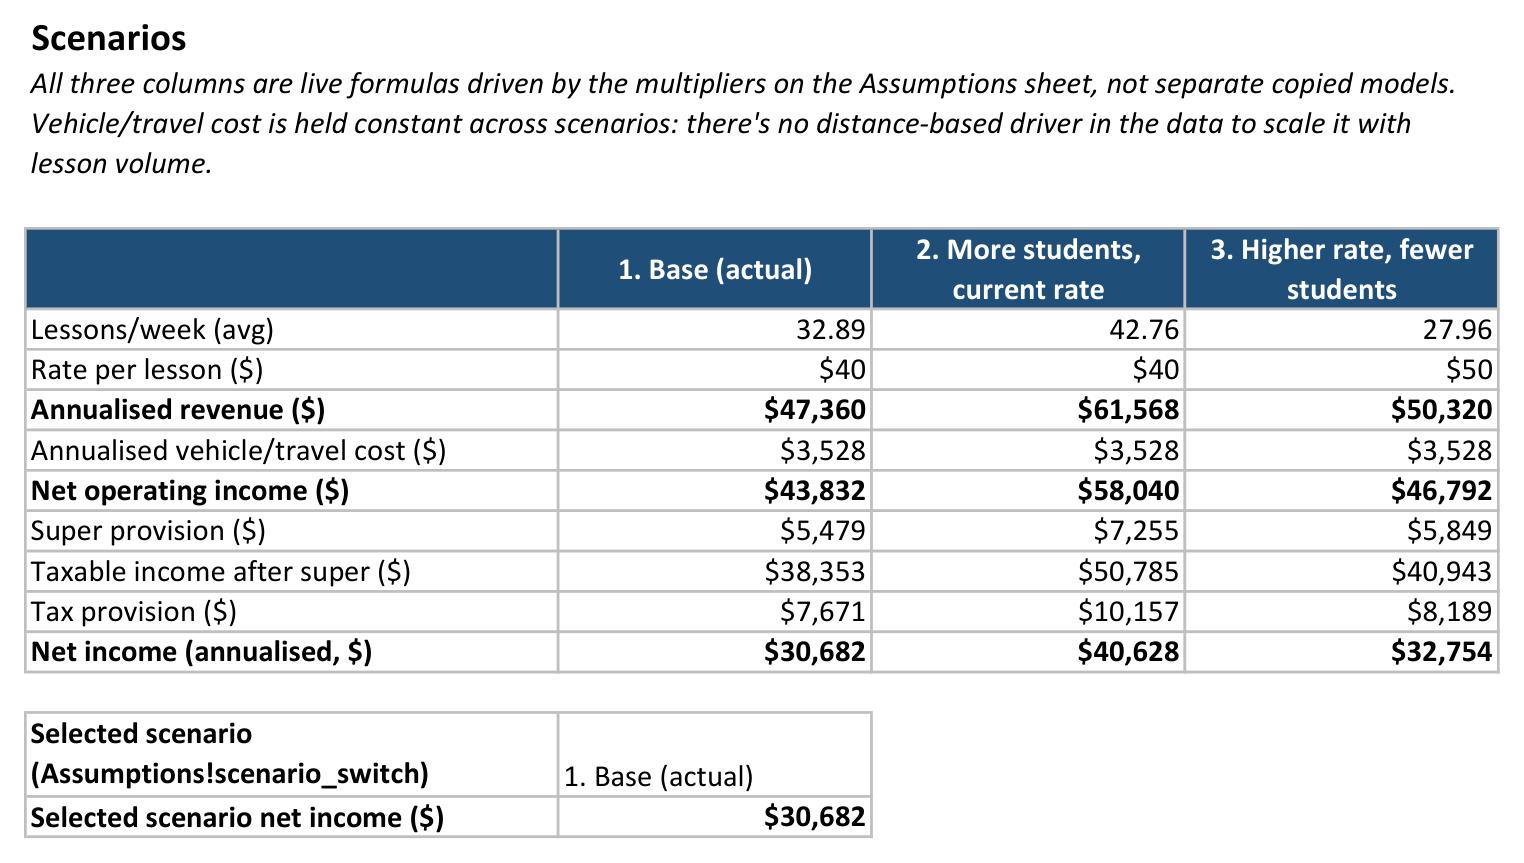
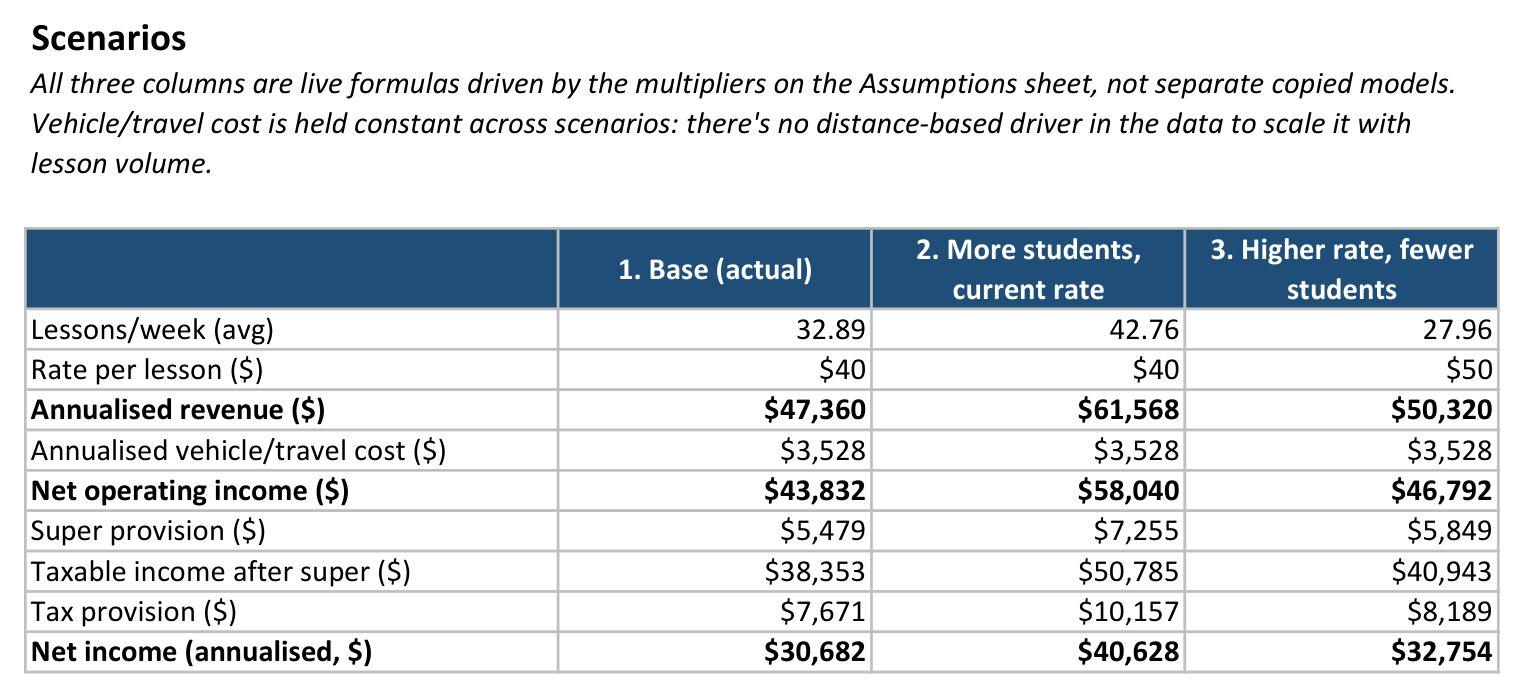
refactor: remove Selected scenario callout from Scenarios sheet
Drops the CHOOSE()-based summary block below the three-scenario table.
scenario_switch on the Assumptions sheet was its only consumer and is
now an orphaned input with no formula referencing it.

diff --git a/scripts/build_workbook.py b/scripts/build_workbook.py
@@ -628,26 +628,10 @@ def build_scenarios(wb, a_refs, capacity_refs):
         sc(ws, f"{col}{r}", f"={col}{taxable_row}*{A('tax_rate')}", font=GREEN, number_format=CURRENCY, border=True)
 
     r += 1
-    net_row = r
     sc(ws, f"A{r}", "Net income (annualised, $)", border=True, bold=True)
     for col in "BCD":
         sc(ws, f"{col}{r}", f"={col}{noi_row}-{col}{super_row}-{col}{tax_row}",
            font=BOLD, number_format=CURRENCY, border=True)
-
-    # Selected-scenario callout: a plain two-column (label | value) summary,
-    # matching the "Total vehicle running cost" style callout on Cost to
-    # serve -- not spanning C:D, since merging empty cells into the value
-    # box just leaves dead space rather than a deliberate-looking table.
-    r += 2
-    sc(ws, f"A{r}", "Selected scenario (Assumptions!scenario_switch)",
-       bold=True, border=True, wrap=True)
-    sc(ws, f"B{r}", f'=CHOOSE({A("scenario_switch")},B{header_row},C{header_row},D{header_row})',
-       font=BLACK, border=True)
-    ws.row_dimensions[r].height = 30
-    r += 1
-    sc(ws, f"A{r}", "Selected scenario net income ($)", bold=True, border=True, wrap=True)
-    sc(ws, f"B{r}", f'=CHOOSE({A("scenario_switch")},B{net_row},C{net_row},D{net_row})',
-       font=BOLD, number_format=CURRENCY, border=True)
 
     return ws
 
